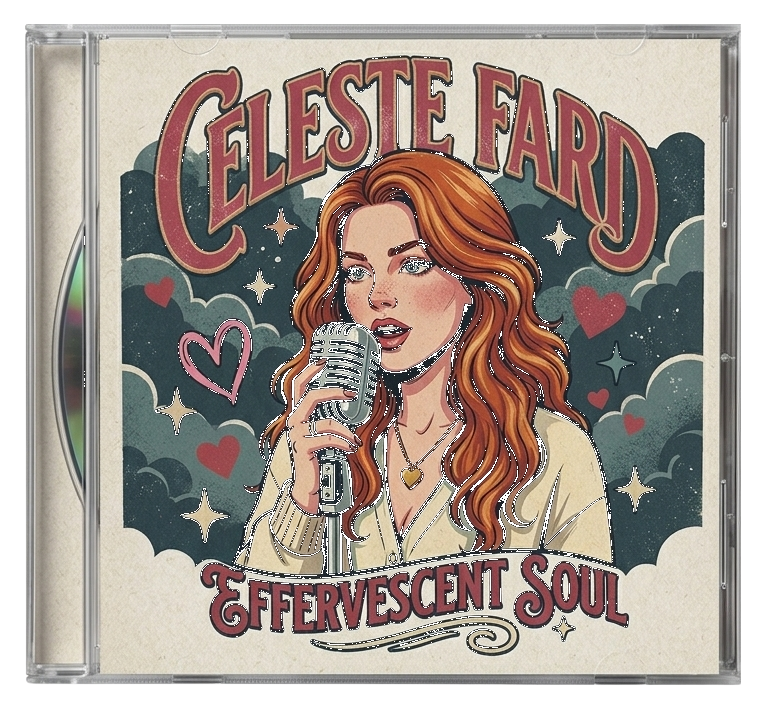
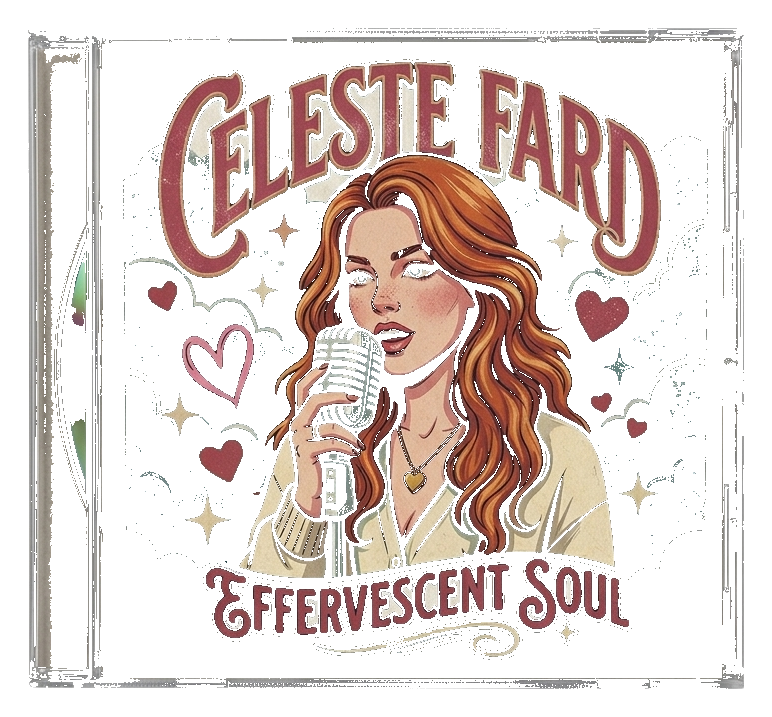
Corriger le fond blanc autour du CD dans le shop.
PNG recadré avec transparence réelle, images shop servies sans recompression Next.js qui flattenait l'alpha.

diff --git a/app/shop/page.tsx b/app/shop/page.tsx
@@ -55,6 +55,7 @@ export default function ShopPage() {
                       src={product.image}
                       alt={product.title}
                       fill
+                      unoptimized
                       sizes="(max-width: 860px) 100vw, 320px"
                     />
                   </div>

diff --git a/app/globals.css b/app/globals.css
@@ -1806,8 +1806,9 @@ h3 {
 .shop-card-image img {
   object-fit: contain;
   object-position: center;
-  padding: 1rem;
+  padding: 0.65rem;
   transition: transform 0.35s ease;
+  filter: drop-shadow(0 14px 22px rgba(31, 21, 45, 0.16));
 }
 
 .shop-card:hover .shop-card-image img {
